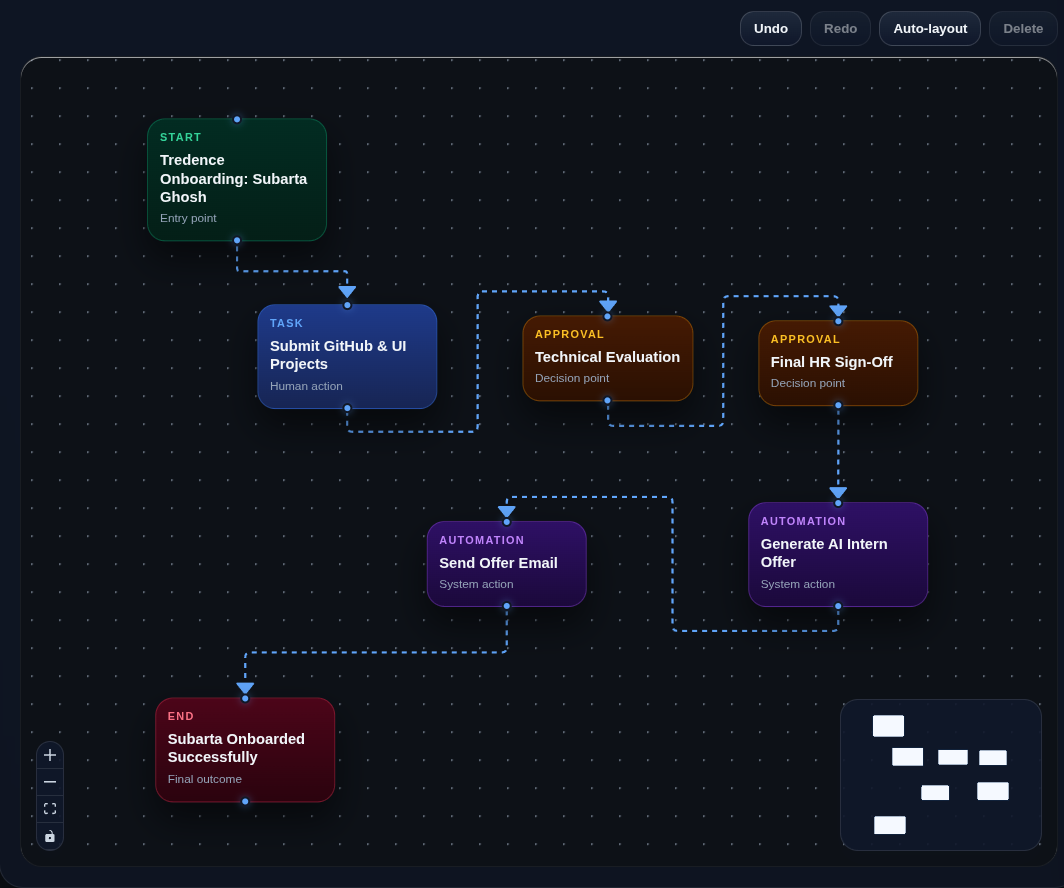
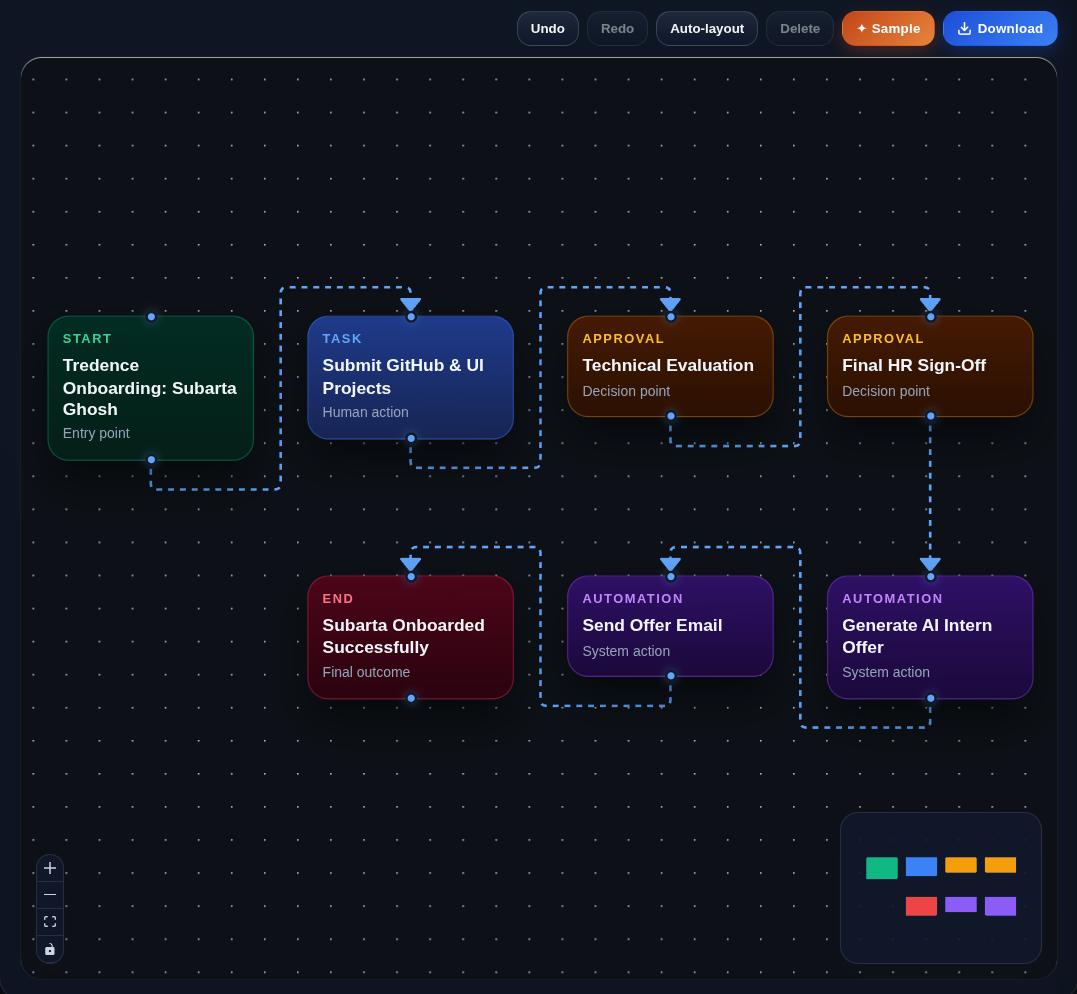
docs(readme): refresh preview images to latest screenshots

diff --git a/README.md b/README.md
@@ -11,19 +11,19 @@ Goal: allow an HR admin to create, edit, validate, and test simple internal work
 ## Preview
 
 ### 🖥 Desktop — Light Mode
-![Light Mode](assets/output%20images/frontend-light.png)
+![Light Mode](assets/output%20images/Tredence%20Analytics%20%E2%80%94%20HR%20Workflow%20Designer-light-1.png)
 
 ### 🌙 Desktop — Dark Mode
-![Dark Mode](assets/output%20images/frontend-dark.png)
+![Dark Mode](assets/output%20images/Tredence%20Analytics%20%E2%80%94%20HR%20Workflow%20Designer-dark-1.png)
 
 ### 🔗 Workflow Graph
 ![Workflow Graph](assets/output%20images/graph.png)
 
 ### 📱 Mobile — Canvas Tab
-![Mobile Canvas](assets/output%20images/Screenshot_20260424_213835_Samsung%20Browser.png)
+![Mobile Canvas](assets/output%20images/Screenshot_20260425_173259_Samsung%20Browser.png)
 
 ### 📱 Mobile — Steps Tab
-![Mobile Steps](assets/output%20images/Screenshot_20260424_213844_Samsung%20Browser.png)
+![Mobile Steps](assets/output%20images/Screenshot_20260425_173312_Samsung%20Browser.png)
 
 ## Stack
 - React + TypeScript + Vite
